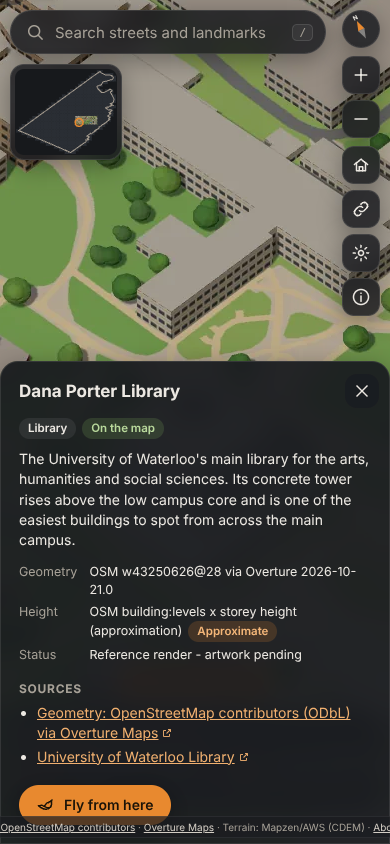
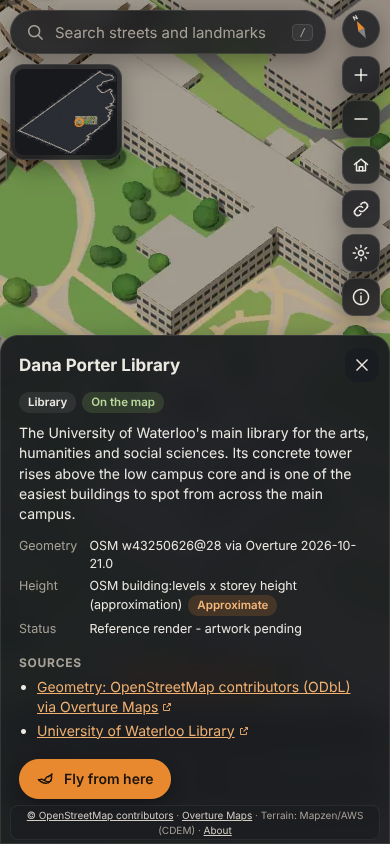
WIP snapshot: in-progress module work from build agents (unverified)
Claude-Session: https://claude.ai/code/session_01VqAdQDSSPKBnYjiqgKN3n5

Changed region(s): [[0.0, 0.3697, 1.0, 1.0]]

diff --git a/web/src/style.css b/web/src/style.css
@@ -136,8 +136,8 @@ button { font: inherit; color: inherit; }
 
 /* panels (dialogs) */
 .panel {
-  position: fixed; top: var(--gap); right: calc(var(--gap) + 52px); width: min(380px, calc(100vw - 2 * var(--gap) - 52px));
-  max-height: calc(100vh - 2 * var(--gap) - 40px); display: flex; flex-direction: column; border-radius: var(--radius); background: rgba(26, 28, 32, 0.94);
+  position: fixed; top: 64px; right: calc(var(--gap) + 52px); width: min(380px, calc(100vw - 2 * var(--gap) - 52px));
+  max-height: calc(100vh - 64px - 44px); display: flex; flex-direction: column; border-radius: var(--radius); background: rgba(26, 28, 32, 0.94);
 }
 .panel-head { display: flex; align-items: center; justify-content: space-between; gap: 8px; padding: 12px 10px 6px 18px; }
 .panel-head h2 { margin: 0; font-size: 17px; font-weight: 650; outline: none; }
@@ -190,7 +190,7 @@ kbd { font: 11.5px var(--mono); padding: 1px 6px; border-radius: 5px; border: 1p
 
 /* toast */
 #toast {
-  position: fixed; left: 50%; top: 68px; translate: -50% -8px; z-index: 20; max-width: min(560px, calc(100vw - 32px));
+  position: fixed; left: 50%; bottom: 196px; translate: -50% 8px; z-index: 20; max-width: min(560px, calc(100vw - 32px));
   padding: 9px 16px; border-radius: 999px; background: var(--panel-solid); border: 1px solid var(--border); box-shadow: var(--shadow);
   opacity: 0; pointer-events: none; transition: opacity 0.18s, translate 0.18s; font-size: 13.5px; text-align: center; overflow-wrap: anywhere;
 }
@@ -223,8 +223,9 @@ kbd { font: 11.5px var(--mono); padding: 1px 6px; border-radius: 5px; border: 1p
     top: auto; left: 0; right: 0; bottom: 0; width: 100%; max-height: 72vh; border-radius: 18px 18px 0 0; z-index: 30;
     padding-bottom: env(safe-area-inset-bottom);
   }
-  #attribution { right: auto; left: 50%; translate: -50% 0; bottom: 6px; white-space: nowrap; font-size: 10px; }
-  #toast { top: 62px; }
+  #attribution { right: auto; left: var(--gap); right: var(--gap); bottom: 4px; text-align: center; font-size: 10px; padding: 2px 8px; }
+  #toast { bottom: auto; top: 62px; translate: -50% -8px; }
+  .panel-body { padding-bottom: 44px; }   /* scroll content clear of the attribution footer */
 }
 
 @media (prefers-reduced-motion: reduce) {

diff --git a/web/src/map/MapView.ts b/web/src/map/MapView.ts
@@ -248,8 +248,16 @@ class MapView implements CameraControl {
     this.lastMoveT = performance.now();
     this.markDirty();
     for (const cb of this.viewL) cb({ ...c });
+    this.scheduleHashWrite();
+  }
+
+  /** Mirror the view into the URL (replaceState, debounced) once the camera has come to rest. */
+  private scheduleHashWrite(): void {
     clearTimeout(this.hashTimer);
-    this.hashTimer = window.setTimeout(() => history.replaceState(history.state, '', formatHash(this.view)), HASH_WRITE_DELAY_MS);
+    this.hashTimer = window.setTimeout(() => {
+      if (this.fly || this.smoothZoom || this.inertia || this.keyPan.dx || this.keyPan.dy) this.scheduleHashWrite();
+      else history.replaceState(history.state, '', formatHash(this.view));
+    }, HASH_WRITE_DELAY_MS);
   }
 
   /** Advance fly-to, smooth zoom, inertia and key panning by dt. Returns true while any is still running. */

diff --git a/web/src/map/ui.ts b/web/src/map/ui.ts
@@ -123,8 +123,8 @@ export function createUI(map: MapAPI, deps: { fx: EffectsModule; actor: ActorMod
   // The actor owns its HUD and Land control; while it flies, map-drag-only UI is hidden and pan input is locked.
   let actorActive = false;
   function syncActor() {
-    if (actor.active === actorActive) return;
-    actorActive = actor.active;
+    if (!!actor.active === actorActive) return;
+    actorActive = !!actor.active;
     app.classList.toggle('actor-active', actorActive);
     map.setInteractive(!actorActive);
     minimap.setEnabled(!actorActive);

diff --git a/web/src/map/widgets/panels.ts b/web/src/map/widgets/panels.ts
@@ -55,7 +55,7 @@ export class Panels {
 
 export function buildSettings(body: HTMLElement, map: MapAPI): void {
   const toggles: [keyof Settings, string, string?][] = [
-    ['minimap', 'Minimap', 'M'],
+    ['minimap', 'Minimap', 'Keyboard shortcut: M'],
     ['life', 'Life on the map', 'Swaying trees and moving water'],
     ['labels', 'Landmark labels'],
     ['coverage', 'Coverage overlay', 'City boundary, pending areas and render badges'],
